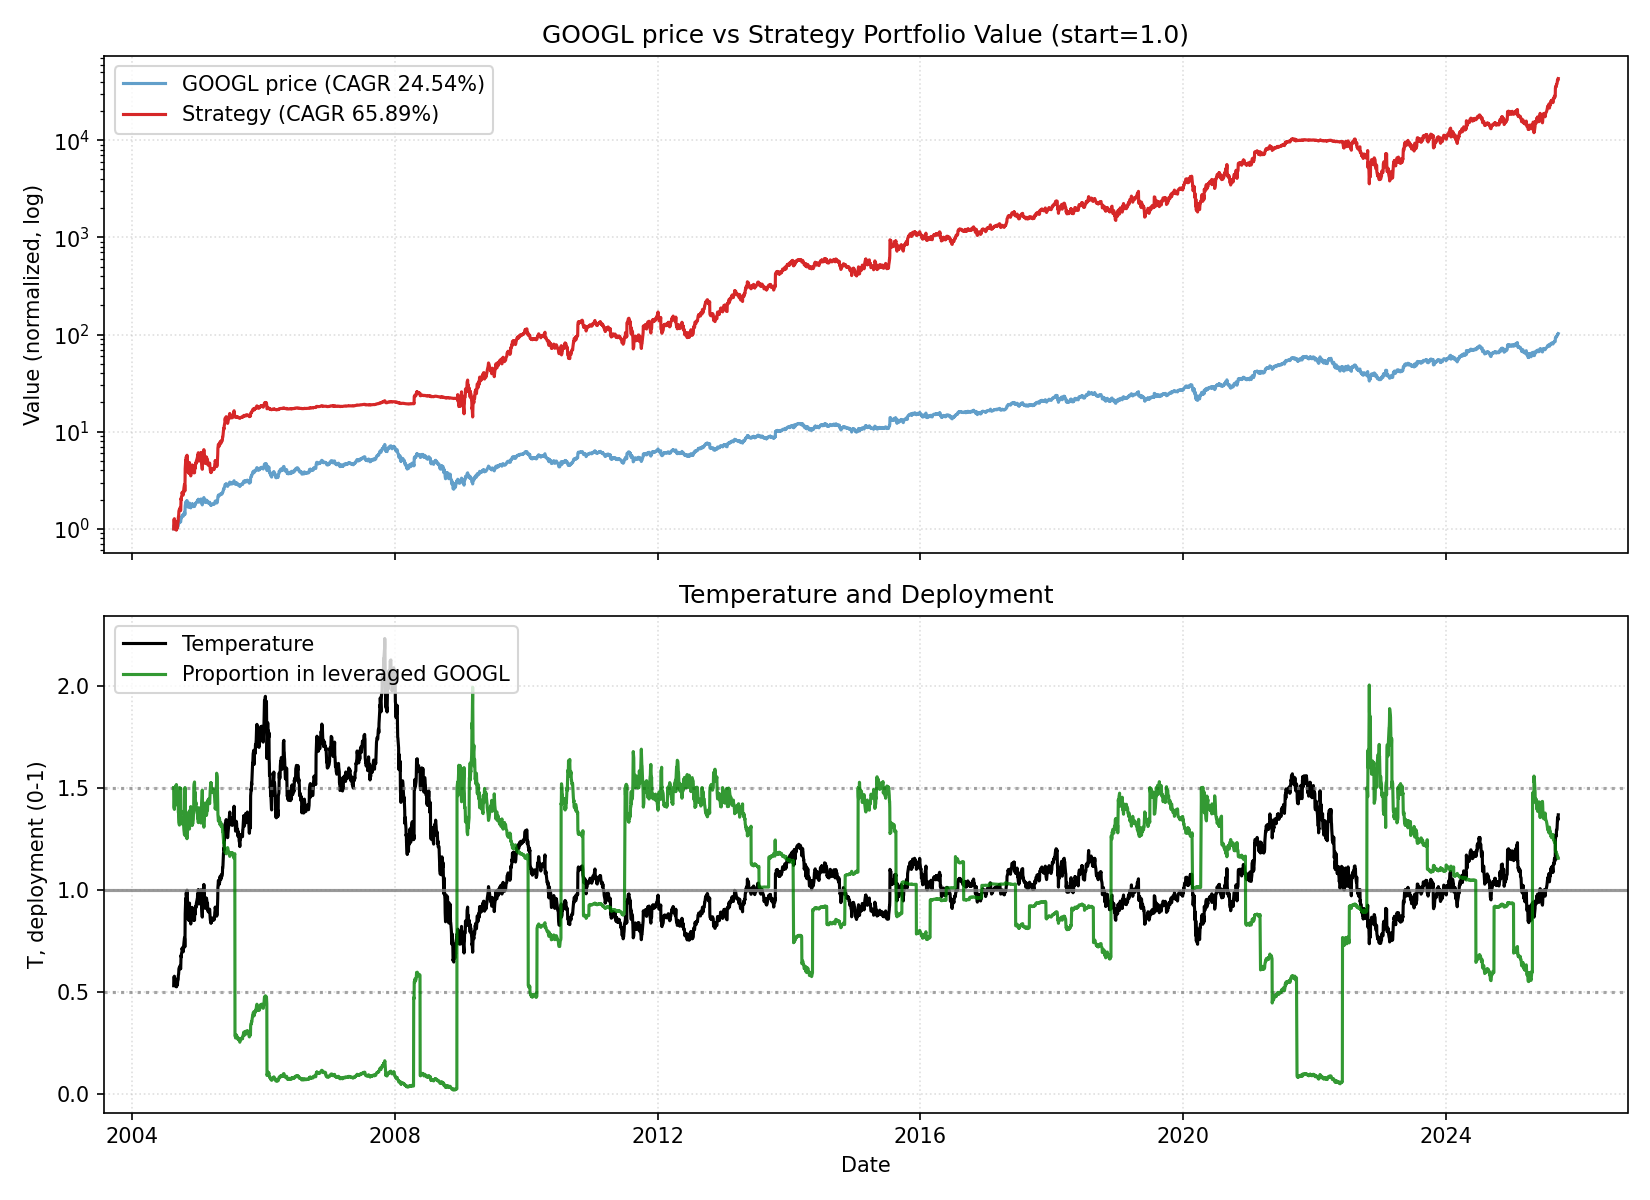
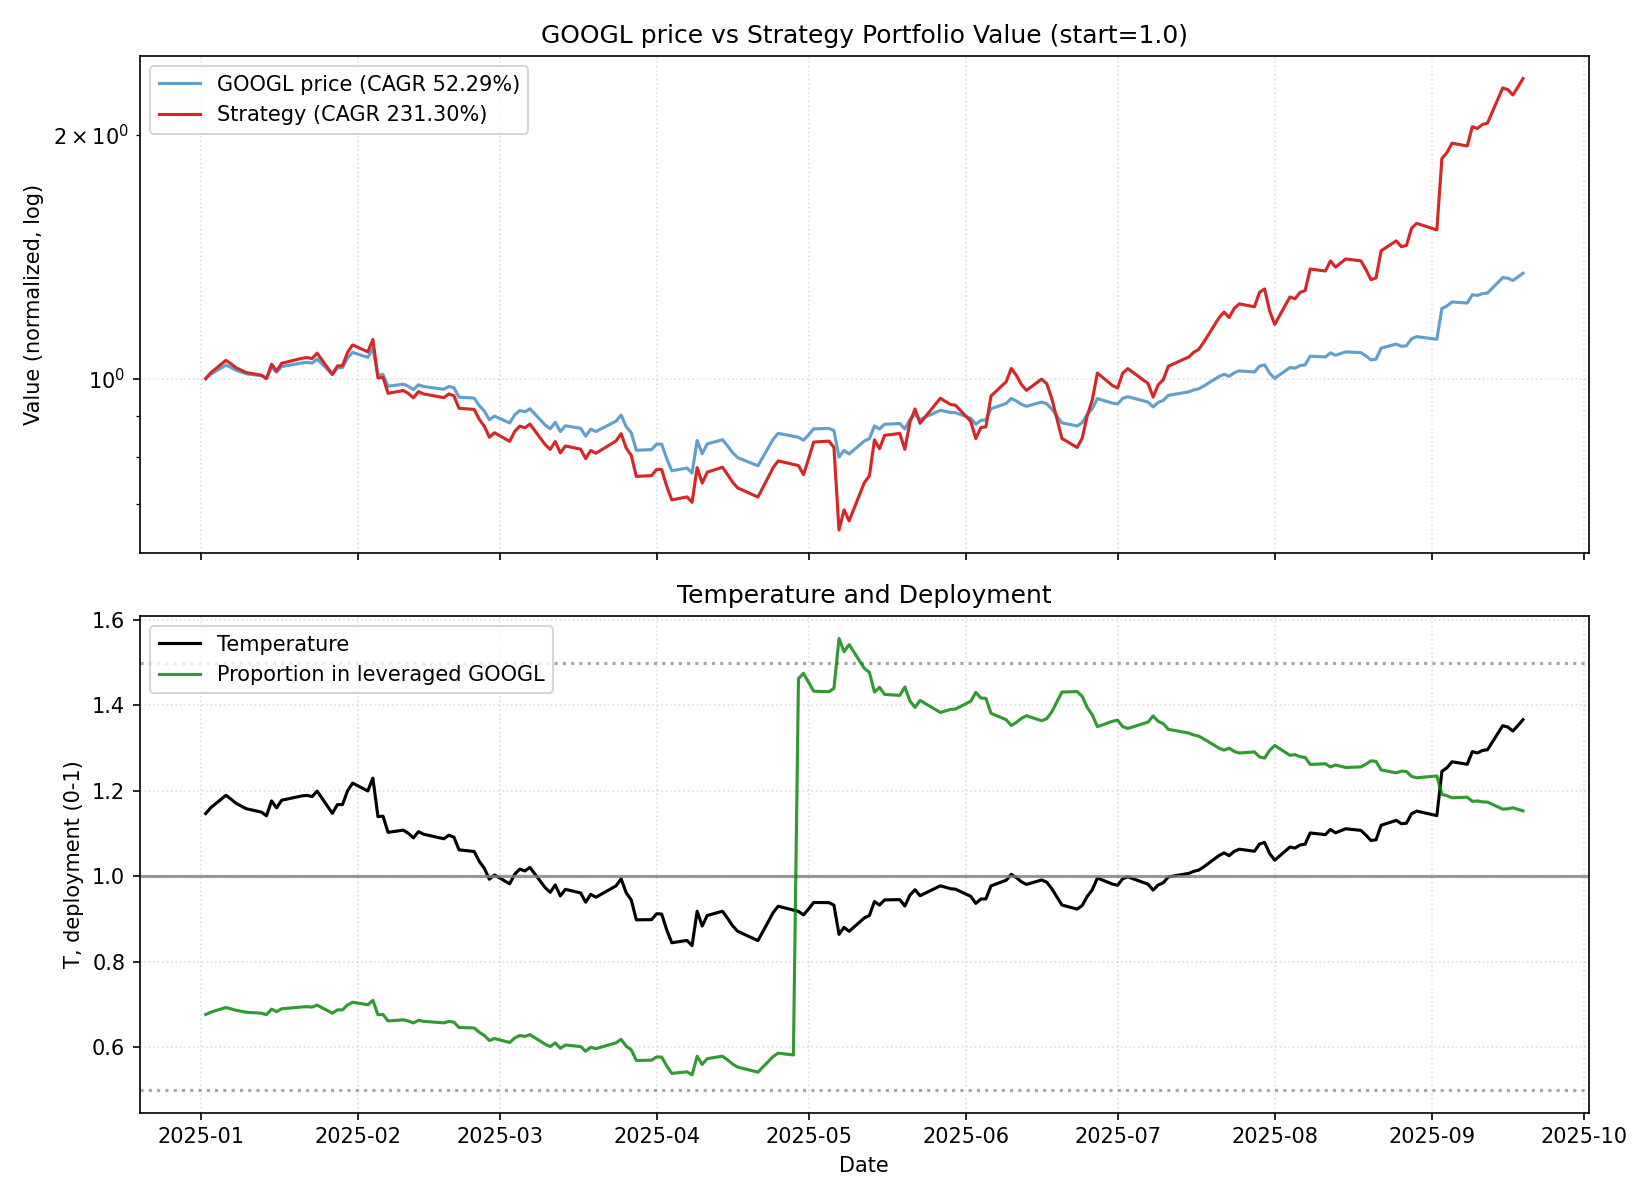
Run GOOG2X and TESLA2X strategy outputs

diff --git a/symbols/googl/googl_GOOG2X_summary.md b/symbols/googl/googl_GOOG2X_summary.md
@@ -1,60 +1,14 @@
 # GOOGL – Strategy GOOG2X Summary
 
-- **Span**: 2004-08-19 → 2025-09-19 (21.08 years)
-- **Underlying (GOOGL price) CAGR**: 24.54%
+- **Span**: 2025-01-02 → 2025-09-19 (0.71 years)
+- **Underlying (GOOGL price) CAGR**: 52.29%
 - **Fitted curve CAGR**: 19.05%
-- **Strategy CAGR**: 65.89%
-- **Max drawdown**: -65.66%
-- **Rebalances executed**: 121
+- **Strategy CAGR**: 231.30%
+- **Max drawdown**: -41.82%
+- **Rebalances executed**: 3
 - **P/E ratio (as of 2025-09-21)**: 27.18
 - **PEG ratio (as of 2025-09-21)**: 1.73
 - **Current growth rate (as of 2025-09-21)**: 15.69%
-
-## Parameter comparison vs A1g
-
-The tables below contrast the GOOG2X overrides with the original A1g defaults. Return
-thresholds are simple price changes over the stated lookback; buy filters block new
-buys when the return is **at or below** the threshold, while sell filters defer trims
-when the return is **at or above** the threshold.
-
-### Temperature anchors (leveraged sleeve allocation)
-
-| Anchor | A1g (T → allocation) | GOOG2X (T → allocation) |
-| --- | --- | --- |
-| Cold anchor | T = 0.927 → 90% | T = 0.911 → 150% |
-| On-curve anchor | T = 1.000 → 69.1% | T = 1.000 → 100.0% |
-| Hot anchor | T = 1.390 → 12.4% | T = 1.414 → 8.8% |
-
-### Momentum buy filters (block buys when…)
-
-| Filter | A1g threshold | GOOG2X threshold |
-| --- | --- | --- |
-| 3-day return | ≤ -0.85% | ≤ -2.63% |
-| 6-day return | ≤ -1.11% | ≤ -7.75% |
-| 12-day return | ≤ -0.50% | ≤ -0.47% |
-| 22-day return | ≤ 0.24% | ≤ 0.37% |
-| Temperature | T > 1.445 | T > 1.260 |
-
-### Momentum sell filters (block trims when…)
-
-| Filter | A1g threshold | GOOG2X threshold |
-| --- | --- | --- |
-| 3-day return | ≥ 7.16% | ≥ 0.77% |
-| 6-day return | ≥ 0.78% | ≥ 2.02% |
-| 12-day return | ≥ 0.40% | ≥ 1.56% |
-| 22-day return | ≥ 0.33% | ≥ -0.15% |
-
-### Rate taper and leverage
-
-| Setting | A1g | GOOG2X |
-| --- | --- | --- |
-| Taper start | 10.58% | 10.00% |
-| Taper end | 11.65% | 12.44% |
-| Minimum allocation | 1.68% | 17.48% |
-| Leverage override | Uses CLI/default (3×) | Forces 2× |
-
-Both configurations keep crash de-risking disabled and retain the 22-trading-day
-rebalance cadence from A1g.
 
 Notes:
 

diff --git a/symbols/tsla/tsla_TESLA2X_summary.md b/symbols/tsla/tsla_TESLA2X_summary.md
@@ -1,0 +1,16 @@
+# TSLA – Strategy TESLA2X Summary
+
+- **Span**: 2010-06-29 → 2025-09-19 (15.23 years)
+- **Underlying (TSLA price) CAGR**: 44.35%
+- **Fitted curve CAGR**: 47.35%
+- **Strategy CAGR**: 91.94%
+- **Max drawdown**: -95.35%
+- **Rebalances executed**: 81
+- **P/E ratio (as of 2025-09-21)**: 256.67
+- **PEG ratio (as of 2025-09-21)**: N/A
+- **Current growth rate (as of 2025-09-21)**: -16.30%
+
+Notes:
+
+- Temperatures and anchors per experiment govern deployment; see EXPERIMENTS.md for details.
+- Figures use simulated leveraged sleeve with fees and borrow costs.
